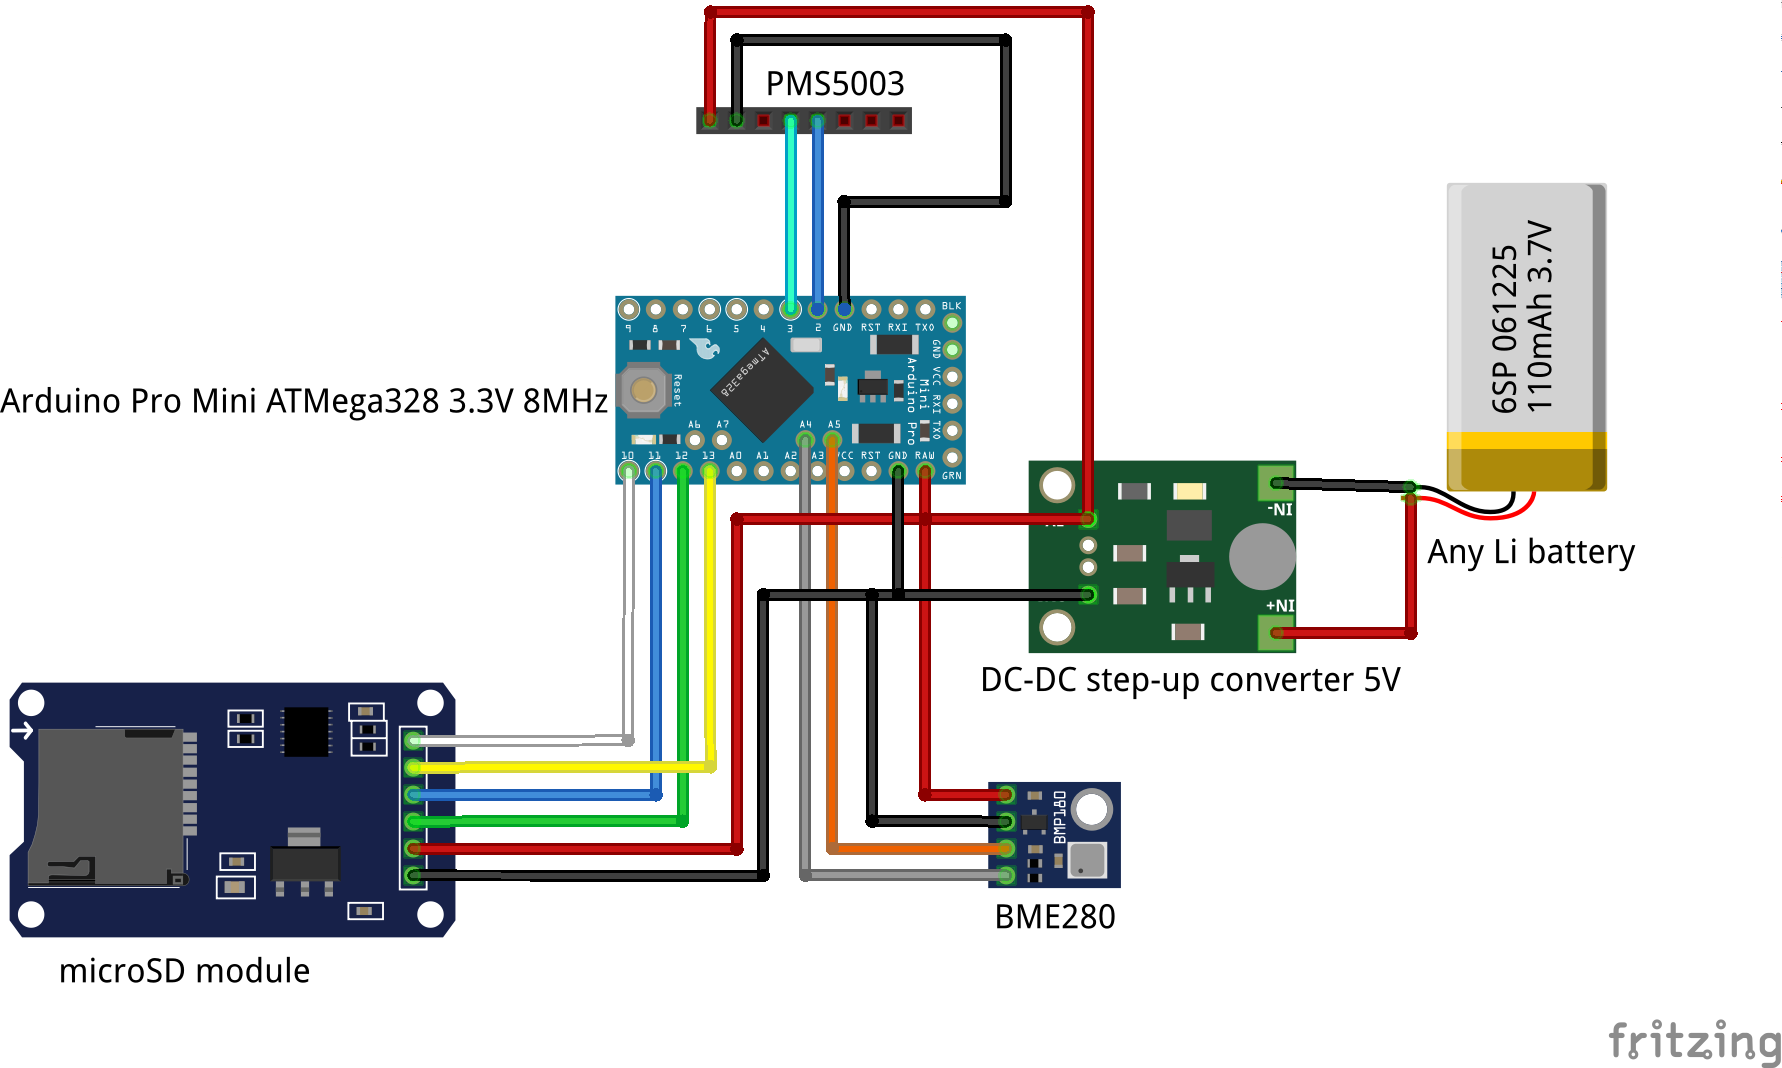
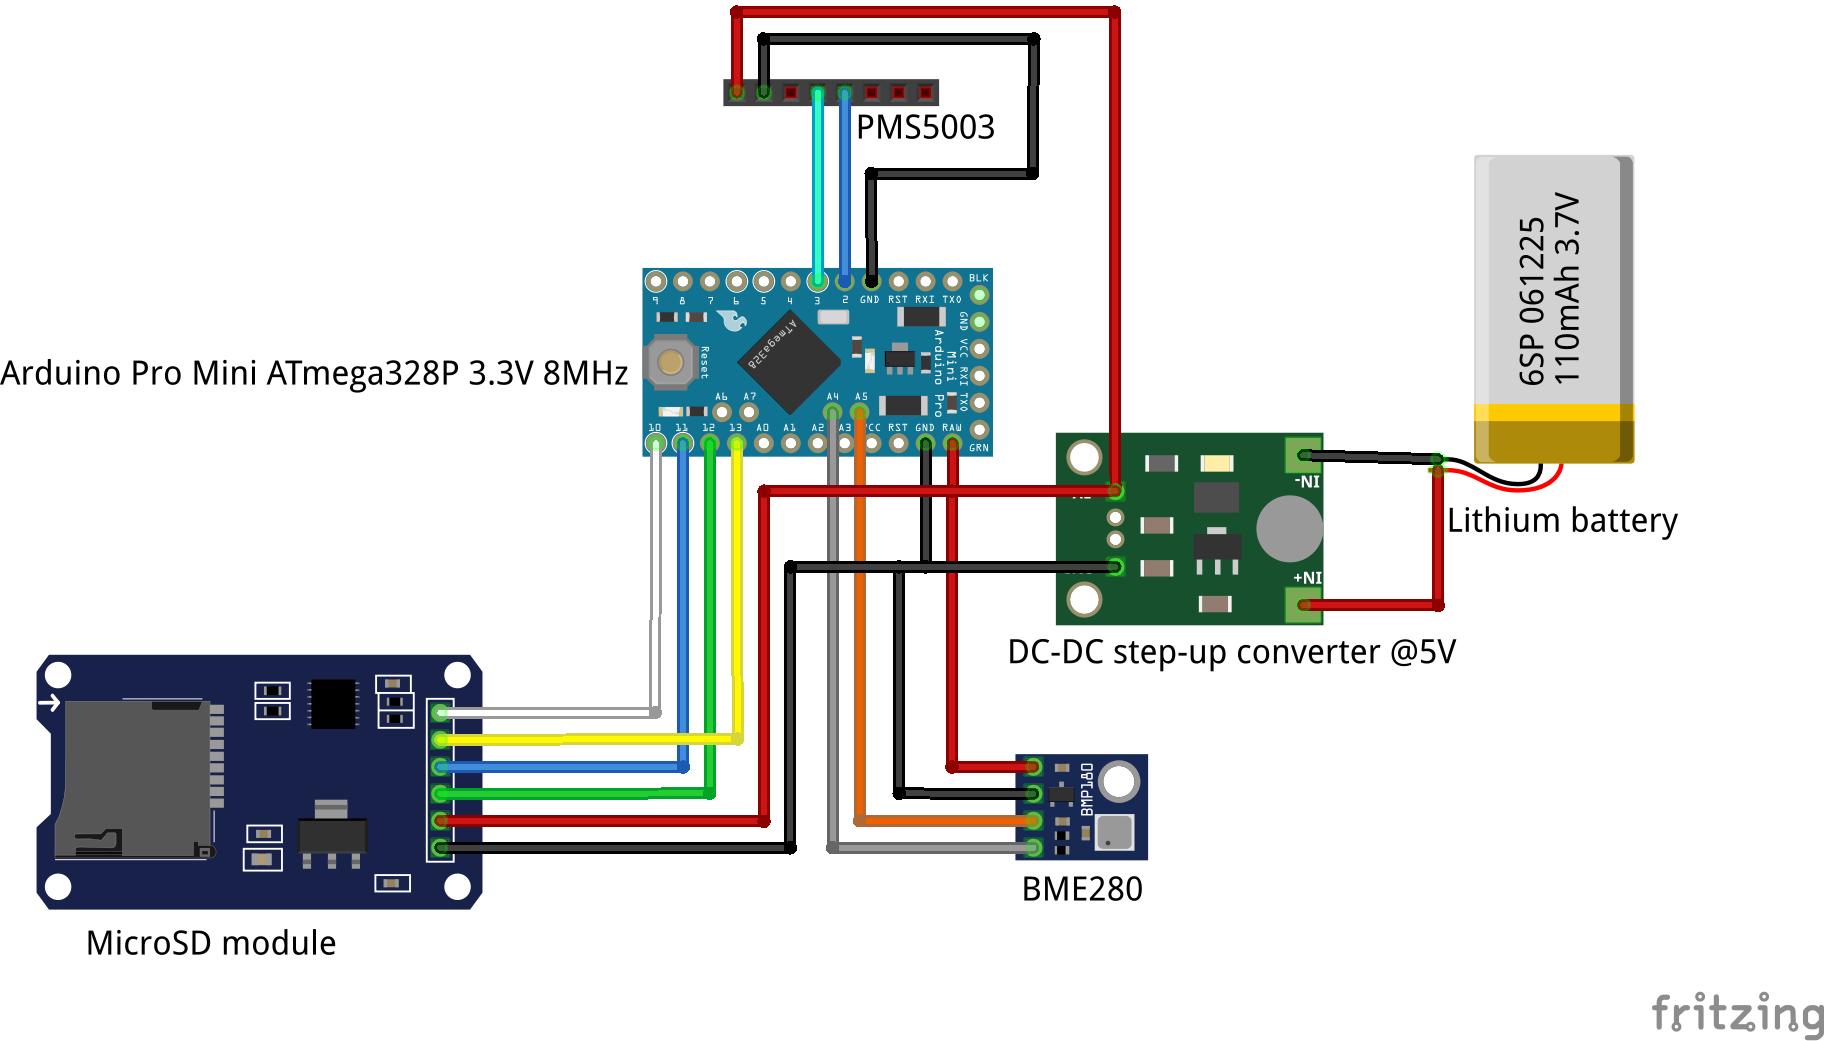
Images and scheme have been updated

Changed region(s): [[0.0, 0.0, 0.9259, 0.9222], [0.8951, 0.9529, 1.0, 1.0]]

diff --git a/README.md b/README.md
@@ -6,7 +6,7 @@ Autonomous air pollution logger for a drone
 An autonomous set which writes PM1.0, PM2.5 and PM10 measurements data from PMS5003 sensor into a MicroSD card.
 
 Equipment:
-* Arduino Pro Mini with ATMega328, 3.3V, 8 MHz
+* Arduino Pro Mini with ATmega328P, 3.3V, 8 MHz
 * PMS5003 sensor
 * BME280 sensor
 * MicroSD module
